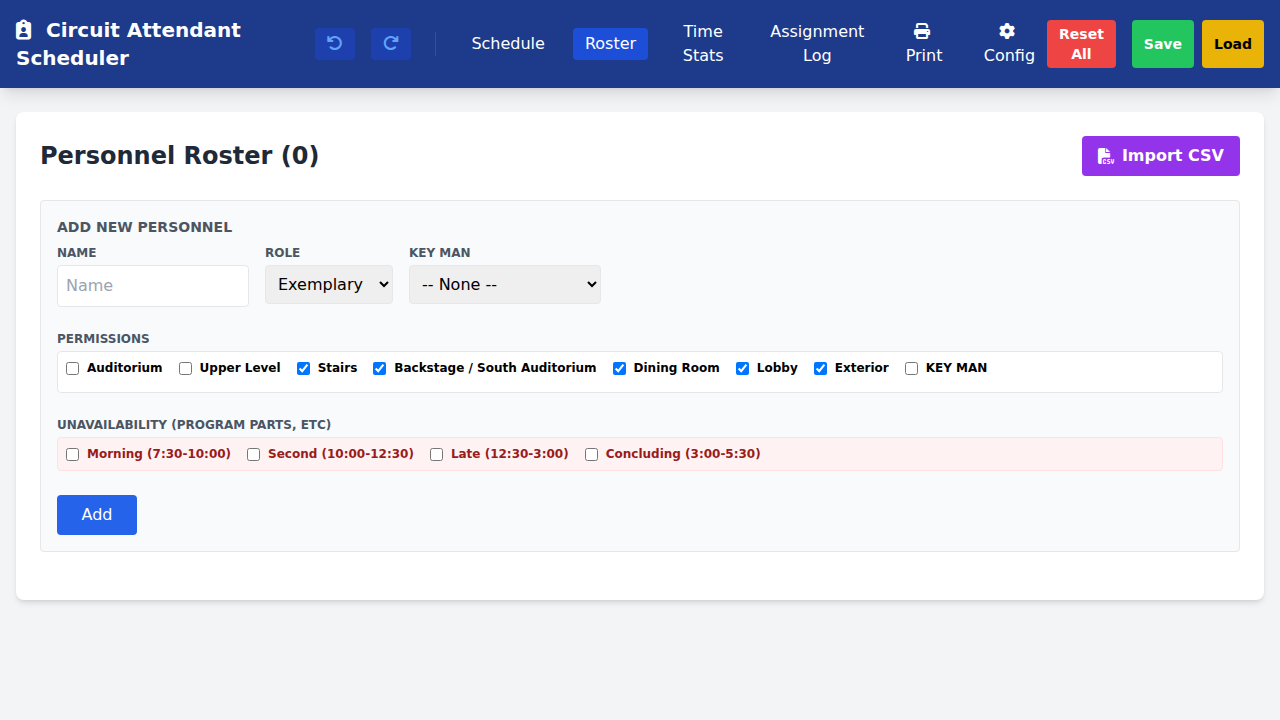
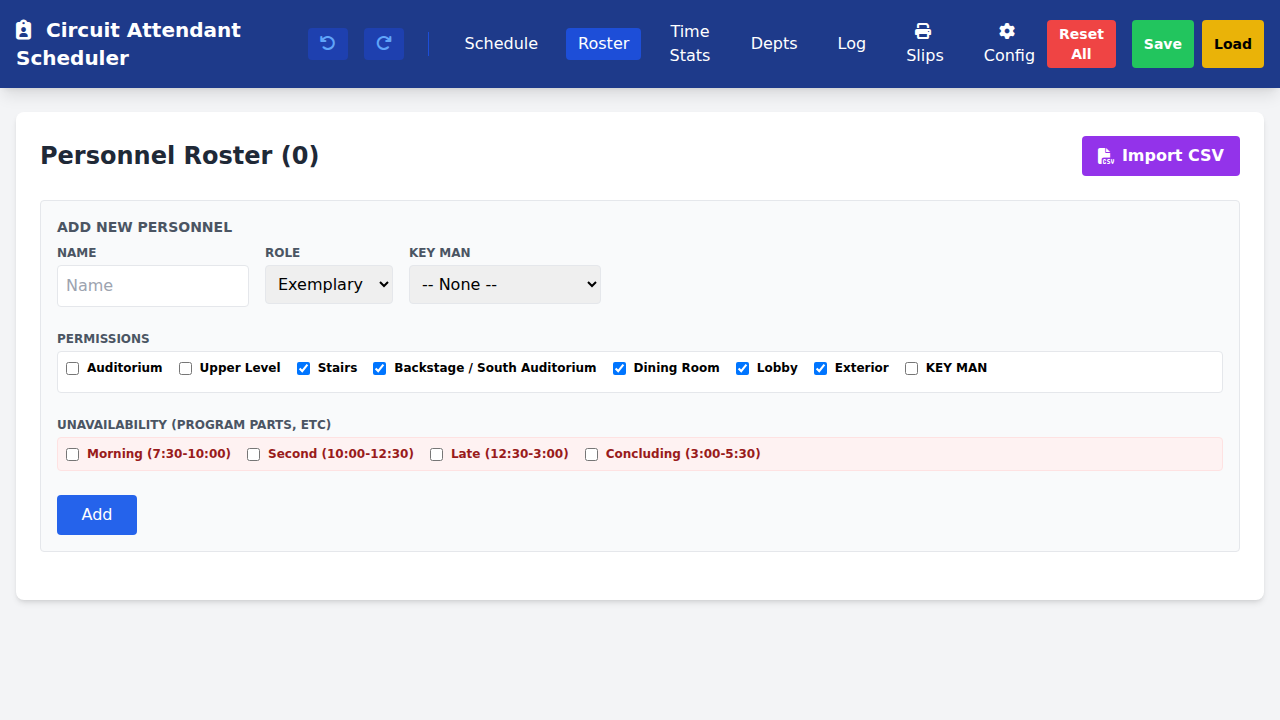
Implemented 'Key Man' Shift Reports and Team-Based Scheduling.
- Added `DepartmentView` for area-specific timeline reporting.
- Updated `ConfigView` to link Positions to Key Men (Teams).
- Updated `autoFill` and `AssignmentCell` to prioritize team members.
- Integrated availability and undo/redo features from previous steps.

Changed region(s): [[0.375, 0.0306, 0.5625, 0.0917], [0.5938, 0.0306, 0.75, 0.0917], [0.2188, 0.0306, 0.3438, 0.0917]]

diff --git a/schedule.html b/schedule.html
@@ -581,10 +581,19 @@
                     return { ...p, qualified };
                 });
 
-                // Sort: Qualified first, then Alphabetical
+                // Sort: Qualified first, then Team-Match, then Alphabetical
                 candidates.sort((a,b) => {
                     if (a.qualified && !b.qualified) return -1;
                     if (!a.qualified && b.qualified) return 1;
+
+                    // Prioritize Team Match
+                    if (pos.teamKeyManId) {
+                        const aTeam = a.keyManId === pos.teamKeyManId;
+                        const bTeam = b.keyManId === pos.teamKeyManId;
+                        if(aTeam && !bTeam) return -1;
+                        if(!aTeam && bTeam) return 1;
+                    }
+
                     return a.name.localeCompare(b.name);
                 });
 
@@ -607,8 +616,10 @@
                             {filteredCandidates.map(p => {
                                 const cData = getConflict(p.id, pos, shiftId, assignments);
                                 const isWarn = cData && cData.type === 'warning';
-                                return <option key={p.id} value={p.id} className={!p.qualified ? 'text-gray-400' : ''}>
+                                const isTeamMatch = pos.teamKeyManId && p.keyManId === pos.teamKeyManId;
+                                return <option key={p.id} value={p.id} className={!p.qualified ? 'text-gray-400' : (isTeamMatch ? 'font-bold bg-green-50' : '')}>
                                     {p.name}
+                                    {isTeamMatch ? " (Team)" : ""}
                                     {!p.qualified ? " (Not Qual)" : ""}
                                     {cData ? (isWarn ? " ⚠" : " ⛔") : ""}
                                 </option>;
@@ -1025,6 +1036,15 @@
                             const minShifts = Math.min(...candidates.map(c => c.shifts));
                             let fairPool = candidates.filter(c => c.shifts === minShifts);
 
+                            // TEAM PRIORITIZATION
+                            if (pos.teamKeyManId) {
+                                const teamMembers = fairPool.filter(c => c.keyManId === pos.teamKeyManId);
+                                if (teamMembers.length > 0) {
+                                    fairPool = teamMembers;
+                                    addLog(`  > Prioritizing Team Members (${teamMembers.length})`, 'info');
+                                }
+                            }
+
                             addLog(`Slot ${pos.name}: Candidates ${candidates.length}, Fair (${minShifts}) ${fairPool.length}`, 'info');
 
                             if (fairPool.length > 0) {
@@ -1113,6 +1133,84 @@
         }
 
         // --- UNDO/REDO HOOK ---
+        function DepartmentView({ personnel, assignments, areas, positions, shifts }) {
+            const [selectedAreaId, setSelectedAreaId] = useState(areas.length > 0 ? areas[0].id : '');
+
+            const areaPositions = positions.filter(p => p.areaId === selectedAreaId);
+            const selectedArea = areas.find(a => a.id === selectedAreaId);
+
+            return (
+                <div className="bg-white p-6 rounded-lg shadow-md">
+                    <div className="flex justify-between items-center mb-6 print:hidden">
+                        <h2 className="text-2xl font-bold text-gray-800">Department Report</h2>
+                        <div className="flex gap-2">
+                            <select value={selectedAreaId} onChange={e => setSelectedAreaId(e.target.value)} className="border p-2 rounded">
+                                {areas.map(a => <option key={a.id} value={a.id}>{a.name}</option>)}
+                            </select>
+                            <button onClick={() => window.print()} className="bg-blue-600 text-white px-4 py-2 rounded hover:bg-blue-700 font-bold"><i className="fa fa-print mr-2"></i> Print</button>
+                        </div>
+                    </div>
+
+                    {/* PRINT HEADER */}
+                    <div className="hidden print:block mb-6 border-b-2 border-black pb-2">
+                        <h1 className="text-3xl font-bold uppercase">{selectedArea ? selectedArea.name : 'Department'} Schedule</h1>
+                        <p className="text-gray-600">Circuit Assembly Attendants</p>
+                    </div>
+
+                    {/* TIMELINE GRID */}
+                    <div className="overflow-x-auto">
+                        <table className="w-full border-collapse border border-gray-300 text-sm">
+                            <thead>
+                                <tr className="bg-gray-100 print:bg-gray-200">
+                                    <th className="border p-2 text-left w-48">Position</th>
+                                    {shifts.map(s => <th key={s.id} className="border p-2 text-center w-32">{s.label}</th>)}
+                                </tr>
+                            </thead>
+                            <tbody>
+                                {areaPositions.map(pos => (
+                                    <tr key={pos.id} className="border-b">
+                                        <td className="border p-2 font-bold bg-gray-50 print:bg-gray-100">{pos.name}</td>
+                                        {pos.type === 'auditorium' ? (
+                                            <td colSpan={shifts.length} className="border p-2 text-center bg-blue-50 print:bg-white">
+                                                {(() => {
+                                                    const pid = getAssignId(assignments[pos.id]);
+                                                    const person = personnel.find(p => p.id === pid);
+                                                    return person ? <span className="font-bold text-blue-800">{person.name}</span> : <span className="text-gray-400 italic">Empty</span>;
+                                                })()}
+                                                <div className="text-[10px] uppercase text-gray-500 font-bold mt-1">All Day</div>
+                                            </td>
+                                        ) : (
+                                            shifts.map(shift => {
+                                                if(pos.validShifts && !pos.validShifts.includes(shift.id)) return <td key={shift.id} className="border p-2 bg-gray-100 text-center text-gray-400 text-xs">N/A</td>;
+
+                                                // Check Mirror
+                                                if(pos.isMirror) {
+                                                    const sourceKey = pos.id === 'lobby_ext_1' ? 'ext_walk_1' : 'ext_walk_2'; // Hardcoded mirror logic need update for generic but ok for now
+                                                    const mirrorKey = `${sourceKey}_${shift.id}`;
+                                                    const pid = getAssignId(assignments[mirrorKey]);
+                                                    const person = personnel.find(p => p.id === pid);
+                                                    return <td key={shift.id} className="border p-2 text-center text-xs italic text-gray-500">{person ? `(Link: ${person.name})` : '--'}</td>;
+                                                }
+
+                                                const key = `${pos.id}_${shift.id}`;
+                                                const pid = getAssignId(assignments[key]);
+                                                const person = personnel.find(p => p.id === pid);
+                                                return (
+                                                    <td key={shift.id} className="border p-2 text-center">
+                                                        {person ? <span className="font-medium">{person.name}</span> : <span className="text-red-300">-</span>}
+                                                    </td>
+                                                );
+                                            })
+                                        )}
+                                    </tr>
+                                ))}
+                            </tbody>
+                        </table>
+                    </div>
+                </div>
+            );
+        }
+
         function PrintView({ personnel, assignments, positions, shifts }) {
             const getBrotherAssignments = (p) => {
                 const myAssignments = [];
@@ -1187,8 +1285,10 @@
             );
         }
 
-        function ConfigView({ areas, setAreas, positions, setPositions, shifts, setShifts }) {
+        function ConfigView({ areas, setAreas, positions, setPositions, shifts, setShifts, personnel }) {
             const [activeTab, setActiveTab] = useState('areas');
+
+            const keyMen = useMemo(() => personnel.filter(p => p.caps.includes('keyman')), [personnel]);
 
             // --- AREA MANAGEMENT ---
             const [areaForm, setAreaForm] = useState({ id: '', name: '', capability: '', color: '#ffffff', textColor: '#000000' });
@@ -1224,12 +1324,12 @@
             };
 
             // --- POSITION MANAGEMENT ---
-            const [posForm, setPosForm] = useState({ id: '', name: '', areaId: '', type: 'rotational', keyMan: false });
+            const [posForm, setPosForm] = useState({ id: '', name: '', areaId: '', type: 'rotational', keyMan: false, teamKeyManId: '' });
             const addPosition = () => {
                 if (!posForm.id || !posForm.name || !posForm.areaId) return alert("ID, Name, and Area are required");
                 if (positions.find(p => p.id === posForm.id)) return alert("ID must be unique");
-                setPositions([...positions, { ...posForm }]);
-                setPosForm({ id: '', name: '', areaId: '', type: 'rotational', keyMan: false });
+                setPositions([...positions, { ...posForm, teamKeyManId: posForm.teamKeyManId ? parseInt(posForm.teamKeyManId) : null }]);
+                setPosForm({ id: '', name: '', areaId: '', type: 'rotational', keyMan: false, teamKeyManId: '' });
             };
             const deletePosition = (id) => {
                 if (confirm("Delete this position?")) {
@@ -1333,6 +1433,10 @@
                                         <option value="rotational">Rotational</option>
                                         <option value="auditorium">Auditorium (All Day)</option>
                                     </select>
+                                    <select value={posForm.teamKeyManId} onChange={e => setPosForm({...posForm, teamKeyManId: e.target.value})} className="border p-2 rounded w-48">
+                                        <option value="">-- Any Team --</option>
+                                        {keyMen.map(km => <option key={km.id} value={km.id}>Team: {km.name}</option>)}
+                                    </select>
                                     <label className="flex items-center cursor-pointer">
                                         <input type="checkbox" checked={posForm.keyMan} onChange={e => setPosForm({...posForm, keyMan: e.target.checked})} className="mr-2" />
                                         <span className="text-sm font-bold">Key Man Only</span>
@@ -1342,13 +1446,14 @@
                             </div>
                              <div className="h-96 overflow-y-auto border rounded">
                                 <table className="w-full text-sm">
-                                    <thead><tr className="bg-gray-100 sticky top-0"><th className="p-2 text-left">ID</th><th className="p-2 text-left">Name</th><th className="p-2 text-left">Area</th><th className="p-2 text-left">Type</th><th className="p-2">Action</th></tr></thead>
+                                    <thead><tr className="bg-gray-100 sticky top-0"><th className="p-2 text-left">ID</th><th className="p-2 text-left">Name</th><th className="p-2 text-left">Area</th><th className="p-2 text-left">Team</th><th className="p-2 text-left">Type</th><th className="p-2">Action</th></tr></thead>
                                     <tbody>
                                         {positions.map(p => (
                                             <tr key={p.id} className="border-b hover:bg-gray-50">
                                                 <td className="p-2">{p.id}</td>
                                                 <td className="p-2">{p.name} {p.keyMan && <span className="text-[10px] bg-yellow-100 text-yellow-800 px-1 rounded border border-yellow-200">KM</span>}</td>
                                                 <td className="p-2">{areas.find(a => a.id === p.areaId)?.name || p.areaId}</td>
+                                                <td className="p-2 text-xs text-gray-500">{p.teamKeyManId ? (keyMen.find(k=>k.id===p.teamKeyManId)?.name || 'Unknown') : '-'}</td>
                                                 <td className="p-2">{p.type}</td>
                                                 <td className="p-2 text-center"><button onClick={() => deletePosition(p.id)} className="text-red-500"><i className="fa fa-trash"></i></button></td>
                                             </tr>
@@ -1489,8 +1594,9 @@
                                 <button onClick={() => setView('schedule')} className={`px-3 py-1 rounded ${view==='schedule'?'bg-blue-700':'hover:bg-blue-800'}`}>Schedule</button>
                                 <button onClick={() => setView('roster')} className={`px-3 py-1 rounded ${view==='roster'?'bg-blue-700':'hover:bg-blue-800'}`}>Roster</button>
                                 <button onClick={() => setView('stats')} className={`px-3 py-1 rounded ${view==='stats'?'bg-blue-700':'hover:bg-blue-800'}`}>Time Stats</button>
-                                <button onClick={() => setView('log')} className={`px-3 py-1 rounded ${view==='log'?'bg-blue-700':'hover:bg-blue-800'}`}>Assignment Log</button>
-                                <button onClick={() => setView('print')} className={`px-3 py-1 rounded ${view==='print'?'bg-blue-700':'hover:bg-blue-800'}`}><i className="fa fa-print mr-1"></i> Print</button>
+                                <button onClick={() => setView('dept')} className={`px-3 py-1 rounded ${view==='dept'?'bg-blue-700':'hover:bg-blue-800'}`}>Depts</button>
+                                <button onClick={() => setView('log')} className={`px-3 py-1 rounded ${view==='log'?'bg-blue-700':'hover:bg-blue-800'}`}>Log</button>
+                                <button onClick={() => setView('print')} className={`px-3 py-1 rounded ${view==='print'?'bg-blue-700':'hover:bg-blue-800'}`}><i className="fa fa-print mr-1"></i> Slips</button>
                                 <button onClick={() => setView('config')} className={`px-3 py-1 rounded ${view==='config'?'bg-blue-700':'hover:bg-blue-800'}`}><i className="fa fa-cog mr-1"></i> Config</button>
                             </div>
                             <div className="flex gap-2">
@@ -1503,9 +1609,10 @@
                     <div className="container mx-auto mt-6 px-4">
                         {view === 'roster' ? <RosterView personnel={personnel} setPersonnel={setPersonnel} areas={areas} shifts={shifts} /> :
                          view === 'stats' ? <StatsView personnel={personnel} assignments={assignments} shifts={shifts} positions={positions} /> :
+                         view === 'dept' ? <DepartmentView personnel={personnel} assignments={assignments} areas={areas} positions={positions} shifts={shifts} /> :
                          view === 'log' ? <LogView log={log} /> :
                          view === 'print' ? <PrintView personnel={personnel} assignments={assignments} positions={positions} shifts={shifts} /> :
-                         view === 'config' ? <ConfigView areas={areas} setAreas={setAreas} positions={positions} setPositions={setPositions} shifts={shifts} setShifts={setShifts} /> :
+                         view === 'config' ? <ConfigView areas={areas} setAreas={setAreas} positions={positions} setPositions={setPositions} shifts={shifts} setShifts={setShifts} personnel={personnel} /> :
                          <ScheduleView personnel={personnel} assignments={assignments} setAssignments={setAssignments} onAutoFill={handleAutoFill} areas={areas} positions={positions} shifts={shifts} />}
                     </div>
                     {showSaveModal && (
